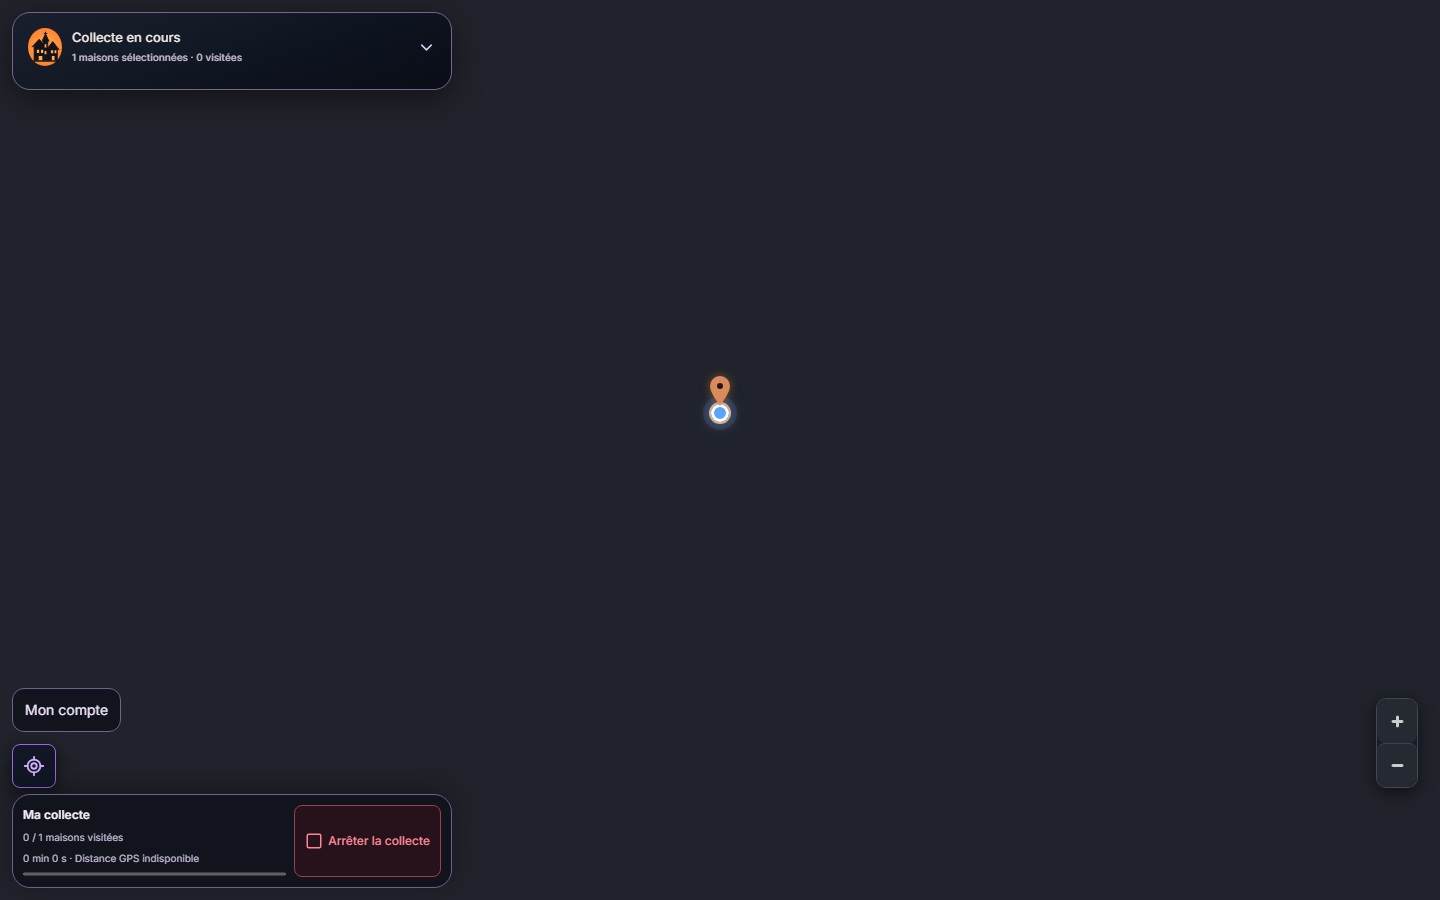
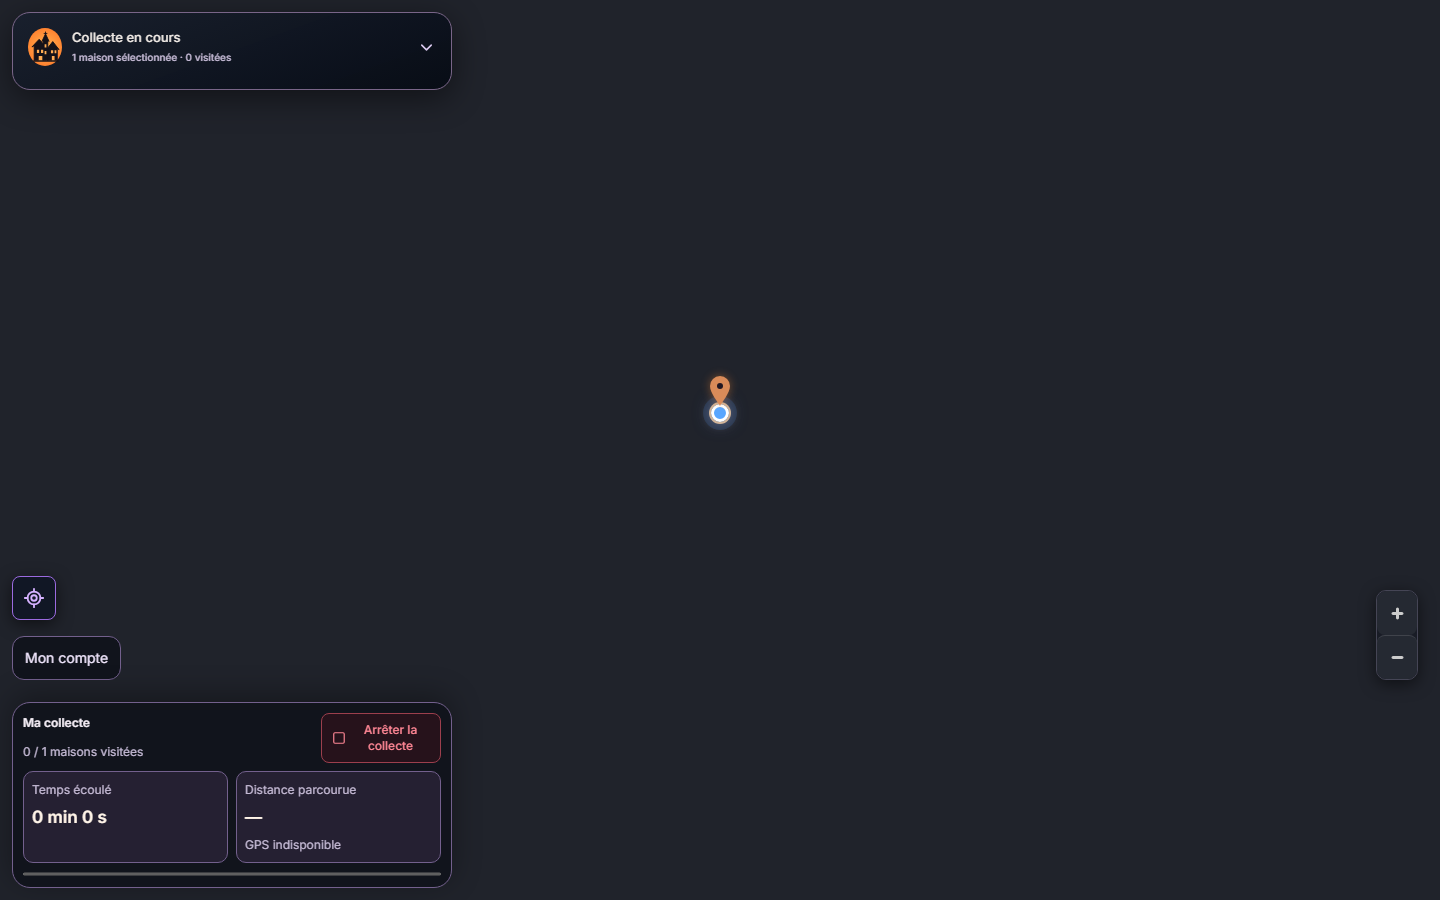
Finish mobile collection metrics and participation consent for V0.8.2

diff --git a/components/MapExperience.css b/components/MapExperience.css
@@ -1236,6 +1236,9 @@
 .route-experience .consultation-recenter {
   bottom: max(18px, env(safe-area-inset-bottom));
 }
+.route-experience.is-focused .route-recenter {
+  bottom: calc(280px + env(safe-area-inset-bottom));
+}
 .route-sheet.collection-top-panel {
   top: max(12px, env(safe-area-inset-top));
   left: max(12px, env(safe-area-inset-left));
@@ -1304,7 +1307,8 @@
   bottom: max(12px, env(safe-area-inset-bottom));
   left: max(12px, env(safe-area-inset-left));
   right: max(12px, env(safe-area-inset-right));
-  display: flex;
+  display: grid;
+  grid-template-columns: minmax(0, 1fr) auto;
   gap: 8px;
   align-items: stretch;
   padding: 10px;
@@ -1315,19 +1319,23 @@
   box-shadow: 0 -6px 30px #0005;
 }
 .collection-bottom-bar > div {
-  flex: 1;
-  min-width: 0;
-  display: grid;
-  gap: 5px;
+  display: contents;
+}
+.collection-bottom-bar > div > strong,
+.collection-bottom-bar > div > small {
+  grid-column: 1;
   font-size: 12px;
 }
 .collection-bottom-bar small {
-  font-size: 10px;
+  font-size: 12px;
   color: #c6bbd6;
 }
 .collection-bottom-bar button {
   flex: none;
-  max-width: 48%;
+  max-width: 120px;
+  align-self: start;
+  grid-column: 2;
+  grid-row: 1 / 3;
   min-height: 48px;
   padding: 8px 10px;
   font-size: 12px;
@@ -1335,7 +1343,27 @@
   gap: 5px;
   align-items: center;
 }
+.collection-live-metrics {
+  display: grid;
+  grid-template-columns: repeat(2, minmax(0, 1fr));
+  gap: 8px;
+  grid-column: 1 / -1;
+}
+.collection-live-metrics > div {
+  display: grid;
+  align-content: start;
+  gap: 4px;
+  padding: 8px;
+  border: 1px solid #73608d;
+  border-radius: 10px;
+  background: #252032;
+}
+.collection-live-metrics strong {
+  font-size: 17px;
+  color: #fff4e8;
+}
 .collection-bottom-bar progress {
+  grid-column: 1 / -1;
   height: 6px;
   width: 100%;
   accent-color: #ff963a;
@@ -1345,19 +1373,19 @@
   z-index: 5;
   left: max(12px, env(safe-area-inset-left));
   right: auto;
-  bottom: calc(168px + env(safe-area-inset-bottom));
+  bottom: calc(220px + env(safe-area-inset-bottom));
   width: 44px;
   height: 44px;
 }
 .route-experience.is-focused .maplibregl-ctrl-top-right {
-  bottom: calc(112px + env(safe-area-inset-bottom));
+  bottom: calc(220px + env(safe-area-inset-bottom));
 }
 .collection-finish-suggestion {
   position: absolute;
   z-index: 4;
   left: 72px;
   right: 72px;
-  bottom: calc(116px + env(safe-area-inset-bottom));
+  bottom: calc(180px + env(safe-area-inset-bottom));
   background: #10131cee;
   border: 1px solid #73538e;
   border-radius: 10px;
@@ -1604,8 +1632,8 @@
 .collection-context-menu {
   position: absolute;
   z-index: 15;
-  left: max(12px, env(safe-area-inset-left));
-  bottom: calc(168px + env(safe-area-inset-bottom));
+  right: max(12px, env(safe-area-inset-right));
+  bottom: calc(330px + env(safe-area-inset-bottom));
 }
 .collection-context-menu summary {
   width: 44px;

diff --git a/components/MapExperience.tsx b/components/MapExperience.tsx
@@ -484,7 +484,7 @@ export default function MapExperience({
             <p className="route-gps-status" role="status">
               {!controller.verified
                 ? controller.checking
-                  ? "Vérification du parcours…"
+                  ? "Vérification de la sélection…"
                   : "Disponibilité non vérifiée"
                 : controller.gpsState === "low-accuracy"
                   ? `GPS approximatif · ±${Math.round(controller.accuracy ?? 0)} m`
@@ -581,13 +581,30 @@ export default function MapExperience({
               <small>
                 {stats.visited} / {stats.selected} maisons visitées
               </small>
-              <small aria-label="Chrono de collecte">
-                {Math.floor(stats.durationSeconds / 60)} min{" "}
-                {stats.durationSeconds % 60} s ·{" "}
-                {distanceKnown
-                  ? `${(stats.distanceMeters / 1000).toLocaleString("fr-FR", { maximumFractionDigits: 2 })} km${distanceComplete ? "" : " · partiel"}`
-                  : "Distance GPS indisponible"}
-              </small>
+              <div className="collection-live-metrics">
+                <div aria-label="Chrono de collecte">
+                  <small>Temps écoulé</small>
+                  <strong>
+                    {Math.floor(stats.durationSeconds / 60)} min{" "}
+                    {stats.durationSeconds % 60} s
+                  </strong>
+                </div>
+                <div aria-label="Distance parcourue">
+                  <small>Distance parcourue</small>
+                  <strong>
+                    {distanceKnown
+                      ? `${(stats.distanceMeters / 1000).toLocaleString("fr-FR", { maximumFractionDigits: 2 })} km`
+                      : "—"}
+                  </strong>
+                  <small>
+                    {distanceKnown
+                      ? distanceComplete
+                        ? "GPS actif"
+                        : "GPS · mesure partielle"
+                      : "GPS indisponible"}
+                  </small>
+                </div>
+              </div>
               <progress
                 aria-label="Progression de la collecte"
                 max={Math.max(1, stats.selected)}

diff --git a/e2e/release-v08.spec.ts b/e2e/release-v08.spec.ts
@@ -607,6 +607,25 @@ for (const width of [390, 1440])
       })
       .click();
     await expect(page.locator(".collection-top-panel")).toBeVisible();
+    const metrics = page.locator(".collection-live-metrics");
+    await expect(metrics).toContainText("Temps écoulé");
+    await expect(metrics).toContainText("Distance parcourue");
+    const bar = (await page.locator(".collection-bottom-bar").boundingBox())!;
+    const metricBox = (await metrics.boundingBox())!;
+    const stopBox = (await page
+      .getByRole("button", { name: "Arrêter la collecte", exact: true })
+      .boundingBox())!;
+    expect(metricBox.x).toBeGreaterThanOrEqual(bar.x);
+    expect(metricBox.x + metricBox.width).toBeLessThanOrEqual(
+      bar.x + bar.width,
+    );
+    expect(metricBox.y).toBeGreaterThanOrEqual(stopBox.y + stopBox.height);
+    expect(
+      await metrics
+        .locator("strong")
+        .first()
+        .evaluate((el) => parseFloat(getComputedStyle(el).fontSize)),
+    ).toBeGreaterThanOrEqual(16);
     await expect(page.locator(".house-marker")).toBeVisible();
     await page.screenshot({
       path: `test-results/review-collection-${width}.png`,

diff --git a/e2e/participation-context.spec.ts b/e2e/participation-context.spec.ts
@@ -289,6 +289,20 @@ for (const width of [390, 1440]) {
       .check();
     await page.getByLabel("Heure de début").fill("18:00");
     await page.getByLabel("Heure de fin").fill("22:00");
+    const consent = page.locator(".participation-consent");
+    const submit = page.locator(".participation-submit");
+    await submit.scrollIntoViewIfNeeded();
+    const consentBox = (await consent.boundingBox())!;
+    const submitBox = (await submit.boundingBox())!;
+    expect(consentBox.y + consentBox.height).toBeLessThanOrEqual(submitBox.y);
+    await expect(consent).toBeInViewport();
+    await expect(
+      page.getByRole("button", {
+        name: "Envoyer ma participation",
+        exact: true,
+      }),
+    ).toBeEnabled();
+    await page.screenshot({ path: `test-results/review-consent-${width}.png` });
     await page.screenshot({
       animations: "disabled",
       path: `${output}/creation-${width}.png`,

diff --git a/components/ParticipationOverlay.css b/components/ParticipationOverlay.css
@@ -416,15 +416,18 @@
   color: #ff8c8c;
 }
 .participation-consent {
-  font-size: 11px;
+  font-size: 14px;
+  color: #f4edf9;
+  background: #292235;
+  border: 1px solid #8c75a5;
   line-height: 1.6;
 }
 .participation-consent details {
   margin-bottom: 8px;
 }
 .participation-consent .check {
-  margin: 10px 0 0;
-  font-size: 11px;
+  margin: 0;
+  font-size: 14px;
   align-items: flex-start;
 }
 .participation-guidelines-link {
@@ -480,12 +483,19 @@
   color: #eee4fa;
 }
 .participation-submit {
-  position: sticky;
+  position: relative;
   bottom: 0;
   z-index: 2;
   margin-top: 10px;
   padding: 10px 0 calc(12px + env(safe-area-inset-bottom));
   background: linear-gradient(#10131aeb, #10131a);
+}
+.participation-submit > button:disabled {
+  opacity: 1;
+  background: #4a3c50;
+  color: #e2d8e8;
+  border-color: #8c75a5;
+  cursor: not-allowed;
 }
 .participation-submit > button {
   display: flex;

diff --git a/components/RouteSheet.tsx b/components/RouteSheet.tsx
@@ -198,7 +198,7 @@ export default function RouteSheet({
           </strong>
           <small>
             {phase === "active"
-              ? `${result.stops.length} maisons sélectionnées · ${visitedIds.length} visitées`
+              ? `${result.stops.length} ${result.stops.length === 1 ? "maison sélectionnée" : "maisons sélectionnées"} · ${visitedIds.length} ${visitedIds.length === 1 ? "visitée" : "visitées"}`
               : routeSummary(result)}
           </small>
         </span>

diff --git a/docs/releases/v082-review/README.md b/docs/releases/v082-review/README.md
@@ -7,6 +7,7 @@ Captures Playwright de l’application, le 11 octobre 2026. Mobile : 390 × 844 
 | Consultation des maisons | [Carte](review-map-390.png) | [Carte](review-map-1440.png) |
 | Collecte libre sans tracé | [Collecte](review-collection-390.png) | [Collecte](review-collection-1440.png) |
 | Création : confirmation de l’emplacement | [Formulaire](review-location-390.png) | [Formulaire](review-location-1440.png) |
+| Consentement et bouton d’envoi, bas du formulaire | [Consentement](review-consent-390.png) | [Consentement](review-consent-1440.png) |
 | Back-office : éditeur et sauvegarde | [Éditeur](review-editor-390.png) | [Éditeur](review-editor-1440.png) |
 
 La carte et la collecte utilisent l’UI, l’API et PostgreSQL de test réels, avec un fond cartographique neutre contrôlé pour rendre les captures reproductibles ; elles ne valident pas la disponibilité des tuiles externes. La maison est une fixture de test. Le test compte les requêtes reçues par le fournisseur de directions : **zéro** pendant la préparation et la collecte. L’éditeur est sauvegardé par l’API réelle dans PostgreSQL, avec vérification du rendu email. Le formulaire est une capture de l’UI réelle avec API d’adresse simulée ; les autres tests couvrent la création réelle et les refus API.
@@ -14,3 +15,5 @@ La carte et la collecte utilisent l’UI, l’API et PostgreSQL de test réels, 
 Les quatre maquettes originales ne sont pas accessibles dans la conversation transférée. Ces captures permettent une revue humaine, mais ne prouvent pas la conformité visuelle exacte. Seule la dernière maquette de collecte **sans tracé** doit servir de référence. Aucun chemin orange ne doit être ajouté.
 
 Les scénarios de régression complémentaires vérifient les pins orange doux, le halo de proximité GPS fiable, les maisons visitées gris-violet, les activités communes, l’ajout hors filtres et le retrait, la progression, le chrono, la distance observée et sa suspension lors des interruptions GPS. Les captures ci-dessus montrent un échantillon d’une seule maison ; consulter les artefacts navigateur CI pour les autres états.
+
+Finitions de la revue 6108959164 : captures collecte et formulaire actualisées. Les blocs Temps écoulé / Distance parcourue et leur statut GPS sont distincts, les commandes de carte sont espacées ; la case de consentement contrastée reste visible au-dessus du bouton d’envoi, désormais dans le flux. Les tests vérifient les dimensions, la taille des valeurs, l’absence de recouvrement et l’envoi activé après acceptation. Clavier virtuel et GPS sur téléphone réel restent à contrôler par le propriétaire.

diff --git a/CHANGELOG.md b/CHANGELOG.md
@@ -4,11 +4,12 @@
 
 - Carte sans aucune couche d’itinéraire ; sélection synchronisée pendant la préparation et la collecte, pins orange et halo de proximité, maisons visitées violet-gris. Accès explicite aux maisons et commandes de collecte sans menu redondant.
 - Collecte libre : tri de proximité distinct, ajouts hors critères initiaux avec activités, frayeur et adaptabilité, sans doublons ; progression, chrono et distance GPS observée dans le panneau bas. Aucun historique de positions ajouté.
+- Finitions mobiles : blocs Temps écoulé / Distance parcourue lisibles, statut GPS explicite, commandes espacées ; consentement contrasté et bouton d’envoi dans le flux pour ne jamais masquer la case. Libellés de sélection et singulier corrigés.
 - Icônes d’activités partagées, identité Halloween Map et logo canonique préservés, alignement des commandes du back-office.
 - Nouvelle maison : commune/code postal configurés en lecture seule et contrôlés côté serveur ; 31 octobre par défaut, heures obligatoires sans présélection, fin après minuit, confirmation GPS visible. Conservation des localisations historiques inchangées ; dates TEST sentinelles masquées.
 - Éditeur commun Tiptap avec undo/redo, formats compatibles avec les sauvegardes et aperçus existants, listes plates et liens sûrs. Aucun support d’images annoncé, aucune migration de contenu.
 - Revalidation des corrections V0.8.1 : reconfirmations sensibles, permissions, adresses forgées, saisons, modération, confidentialité et pipeline SMTP.
-- Validation visuelle contre les quatre maquettes non effectuée : références absentes du contexte accessible. Réception Gmail/Outlook réelle non vérifiée. Publication et déploiement soumis à la validation finale de cette PR.
+- Validation visuelle contre les quatre maquettes non effectuée : références absentes du contexte accessible. GPS sur vrai mobile, tuiles externes et réception Gmail/Outlook réelle restent à tester après pull Dockhand par le propriétaire. Publication autorisée pour ces tests réels.
 
 ## V0.8.1
 

diff --git a/docs/releases/V0.8.2-validation.md b/docs/releases/V0.8.2-validation.md
@@ -50,4 +50,8 @@ La matrice détaillée [V0.8.1-validation.md](V0.8.1-validation.md) reste la bas
 
 ## Livraison
 
-La PR reste en brouillon jusqu’à revue visuelle et accord sur les écarts. La CI PR vérifie aussi la construction Docker et le healthcheck. Aucun tag, image GHCR, release ni déploiement Dockhand n’est publié par cette branche. Après validation et fusion autorisée, le workflow existant sur `main` peut publier V0.8.2 si les jobs verify/docker passent. Readiness Dockhand à confirmer avec l’image publiée dans son environnement, sans intervenir ici sur ce service.
+Le propriétaire a explicitement autorisé fusion et publication V0.8.2 pour tests réels le 11 octobre 2026. Les mentions de brouillon ci-dessus décrivent la validation initiale. La fusion reste conditionnée à la CI verte sur le dernier commit ; le workflow main publie ensuite l’image, le tag et la release. Dockhand et PostgreSQL production ne sont pas manipulés.
+
+Finitions ciblées de la revue 6108959164 : deux blocs lisibles pour chrono et distance GPS, statut indisponible/partiel explicite, commandes de carte espacées ; case de consentement contrastée, CTA dans le flux sans recouvrement ; « Vérification de la sélection » et singulier corrigés. Validation locale finale : 59 tests ciblés, lint/types, build ; 4 scénarios Chromium sur mobile et desktop avec UI/API/PostgreSQL et zéro appel au fournisseur de directions ; migrations exécutées deux fois sur PostgreSQL 17.10 isolé. Captures actualisées dans v082-review.
+
+Réserves de test : GPS et interruptions/arrière-plan sur vrai téléphone, clavier virtuel/safe area, tuiles externes avec plusieurs maisons dans différents états, Textes & documents en thème sombre, conformité exacte aux maquettes originales et réception/rendu Gmail/Outlook réels. Les captures à fond neutre ne prouvent pas ces points. Aucune anomalie critique détectée par les validations ciblées ; CI complète et publication restent à vérifier après ce commit.
